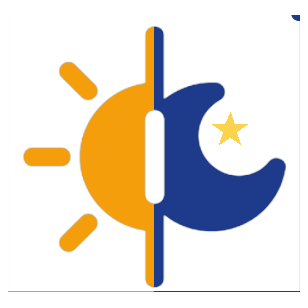
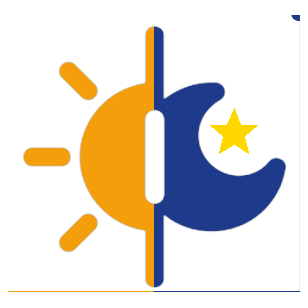
fix(theme): render custom image element directly to completely replace unstyled capsule button

Changed region(s): [[0.6721, 0.3506, 0.8474, 0.4968]]

diff --git a/modules/landing/ui.py b/modules/landing/ui.py
@@ -172,52 +172,35 @@ def _inject_css(t: dict):
         z-index: 1;
     }}
 
-    /* ── Exact Theme Toggle Symbol (Transparent background, no white capsule) ── */
-    div[data-testid="column"]:has(#ac-theme-toggle-marker) button,
-    .ac-theme-toggle-btn {{
-        width: 48px !important;
-        height: 48px !important;
-        min-width: 48px !important;
-        max-width: 48px !important;
-        background: transparent !important;
-        background-color: transparent !important;
-        background-image: url('{theme_icon_uri}') !important;
-        background-repeat: no-repeat !important;
-        background-position: center !important;
-        background-size: contain !important;
-        border: none !important;
-        box-shadow: none !important;
-        outline: none !important;
-        cursor: pointer !important;
+    /* ── Hide the raw unstyled button in the theme column completely ────────── */
+    div[data-testid="stColumn"]:last-child div[data-testid="stButton"],
+    div[data-testid="column"]:last-child div[data-testid="stButton"],
+    div:has(#ac-theme-toggle-box) + div[data-testid="stButton"],
+    div:has(#ac-theme-toggle-box) ~ div[data-testid="stButton"],
+    button[aria-label*="Theme"],
+    button[aria-label*="theme"],
+    button:not([data-testid="baseButton-primary"]):not(.ac-pink-signin-btn) {{
+        display: none !important;
+        opacity: 0 !important;
+        position: absolute !important;
+        pointer-events: none !important;
+        width: 0 !important;
+        height: 0 !important;
+        margin: 0 !important;
         padding: 0 !important;
-        margin: 6px 0 0 auto !important;
-        display: flex !important;
+        border: none !important;
+    }}
+
+    /* ── Custom Theme Toggle Icon (Exact reference image, 100% transparent) ── */
+    #ac-custom-theme-btn {{
+        cursor: pointer !important;
+        transition: transform 0.22s ease !important;
+        display: inline-flex !important;
         align-items: center !important;
         justify-content: center !important;
-        transition: transform 0.22s ease !important;
     }}
-    div[data-testid="column"]:has(#ac-theme-toggle-marker) button:hover,
-    .ac-theme-toggle-btn:hover {{
+    #ac-custom-theme-btn:hover {{
         transform: scale(1.18) rotate(8deg) !important;
-        background: transparent !important;
-        background-color: transparent !important;
-        background-image: url('{theme_icon_uri}') !important;
-        border: none !important;
-        box-shadow: none !important;
-        outline: none !important;
-    }}
-    div[data-testid="column"]:has(#ac-theme-toggle-marker) button:active,
-    div[data-testid="column"]:has(#ac-theme-toggle-marker) button:focus {{
-        background: transparent !important;
-        background-color: transparent !important;
-        background-image: url('{theme_icon_uri}') !important;
-        border: none !important;
-        box-shadow: none !important;
-        outline: none !important;
-    }}
-    /* Hide any text inside the theme toggle button so only the icon shows */
-    div[data-testid="column"]:has(#ac-theme-toggle-marker) button * {{
-        display: none !important;
     }}
 
     /* ── Pink Sign In Option (Top Right — Vibrant & Visible in both themes) ─ */
@@ -656,38 +639,31 @@ def _animated_background(theme_key: str, theme_icon_uri: str = ""):
         f"""
         <script>
         (function run() {{
-            // Style theme toggle button directly via marker element
-            function styleThemeToggle() {{
+            // Wire the custom theme icon to trigger the hidden theme toggle button
+            function wireThemeToggle() {{
                 try {{
                     const doc = window.parent.document;
                     if (!doc) return;
-                    const marker = doc.getElementById('ac-theme-toggle-marker');
-                    if (marker) {{
-                        const col = marker.closest('[data-testid="column"]') || marker.parentElement;
-                        const btn = col ? col.querySelector('button') : null;
-                        if (btn) {{
-                            btn.style.setProperty('background', 'transparent', 'important');
-                            btn.style.setProperty('background-color', 'transparent', 'important');
-                            btn.style.setProperty('background-image', 'url("{theme_icon_uri}")', 'important');
-                            btn.style.setProperty('background-repeat', 'no-repeat', 'important');
-                            btn.style.setProperty('background-position', 'center', 'important');
-                            btn.style.setProperty('background-size', 'contain', 'important');
-                            btn.style.setProperty('border', 'none', 'important');
-                            btn.style.setProperty('box-shadow', 'none', 'important');
-                            btn.style.setProperty('outline', 'none', 'important');
-                            btn.style.setProperty('width', '48px', 'important');
-                            btn.style.setProperty('height', '48px', 'important');
-                            btn.style.setProperty('min-width', '48px', 'important');
-                            btn.style.setProperty('cursor', 'pointer', 'important');
-                            btn.style.setProperty('padding', '0', 'important');
-                            const inner = btn.querySelectorAll('*');
-                            inner.forEach(el => {{ el.style.display = 'none'; }});
-                        }}
+                    const customBtn = doc.getElementById('ac-custom-theme-btn');
+                    if (customBtn && !customBtn.dataset.wired) {{
+                        customBtn.dataset.wired = "true";
+                        customBtn.addEventListener('click', function(e) {{
+                            e.preventDefault();
+                            e.stopPropagation();
+                            const btns = doc.querySelectorAll('button');
+                            for (const b of btns) {{
+                                const txt = (b.innerText || '').trim();
+                                if (!txt.includes('Sign In')) {{
+                                    b.click();
+                                    break;
+                                }}
+                            }}
+                        }});
                     }}
                 }} catch(e) {{}}
             }}
-            styleThemeToggle();
-            setInterval(styleThemeToggle, 120);
+            wireThemeToggle();
+            setInterval(wireThemeToggle, 100);
 
             // Retry until parent canvas is available
             const canvas = window.parent.document.getElementById('ac-anim-canvas');
@@ -919,7 +895,13 @@ def render_landing() -> dict:
         st.markdown('<div id="ac-top-signin-marker"></div>', unsafe_allow_html=True)
         top_signin_clicked = st.button("👤  Sign In", key="ac_top_signin_btn", type="primary", use_container_width=True)
     with top_col_theme:
-        st.markdown('<div id="ac-theme-toggle-marker"></div>', unsafe_allow_html=True)
+        st.markdown(clean_html(f"""
+        <div id="ac-theme-toggle-box" style="display:flex; justify-content:flex-end; align-items:center; padding-top:6px;">
+            <div id="ac-custom-theme-btn" style="width:48px; height:48px; cursor:pointer; display:inline-flex; align-items:center; justify-content:center; transition:transform 0.22s ease;" title="Toggle Light / Dark Theme">
+                <img src="{theme_icon_uri}" alt="Toggle Theme" style="width:46px; height:46px; display:block; pointer-events:none; user-select:none;" />
+            </div>
+        </div>
+        """), unsafe_allow_html=True)
         theme_clicked = st.button(" ", key="ac_theme_toggle", help="Toggle Light / Dark Theme")
         if theme_clicked:
             st.session_state["ac_theme"] = other_key
